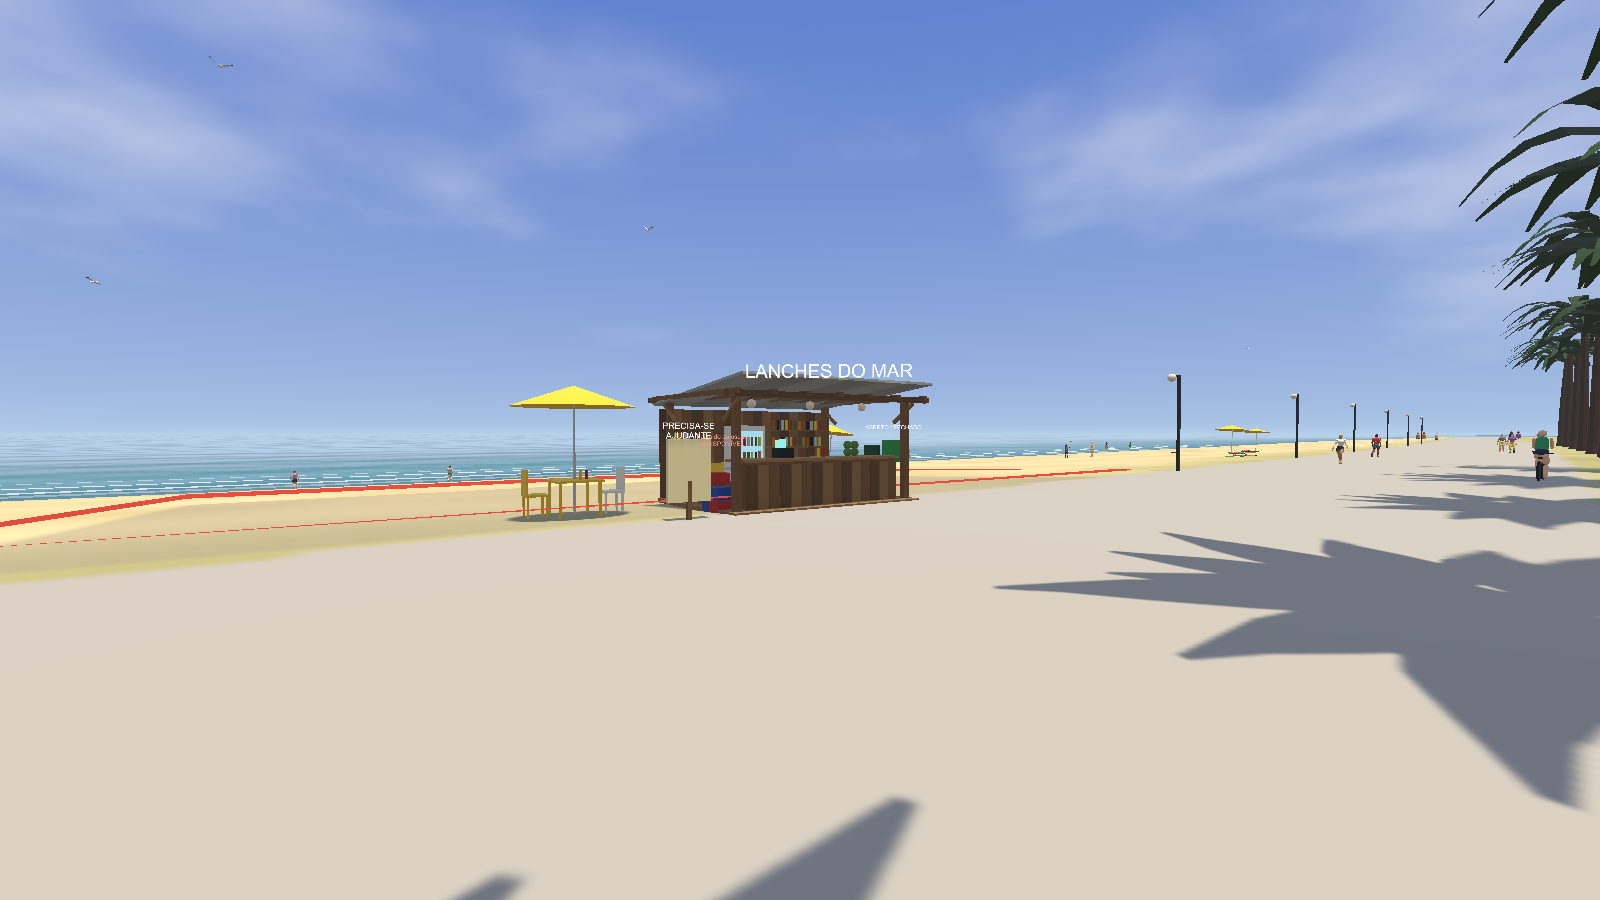
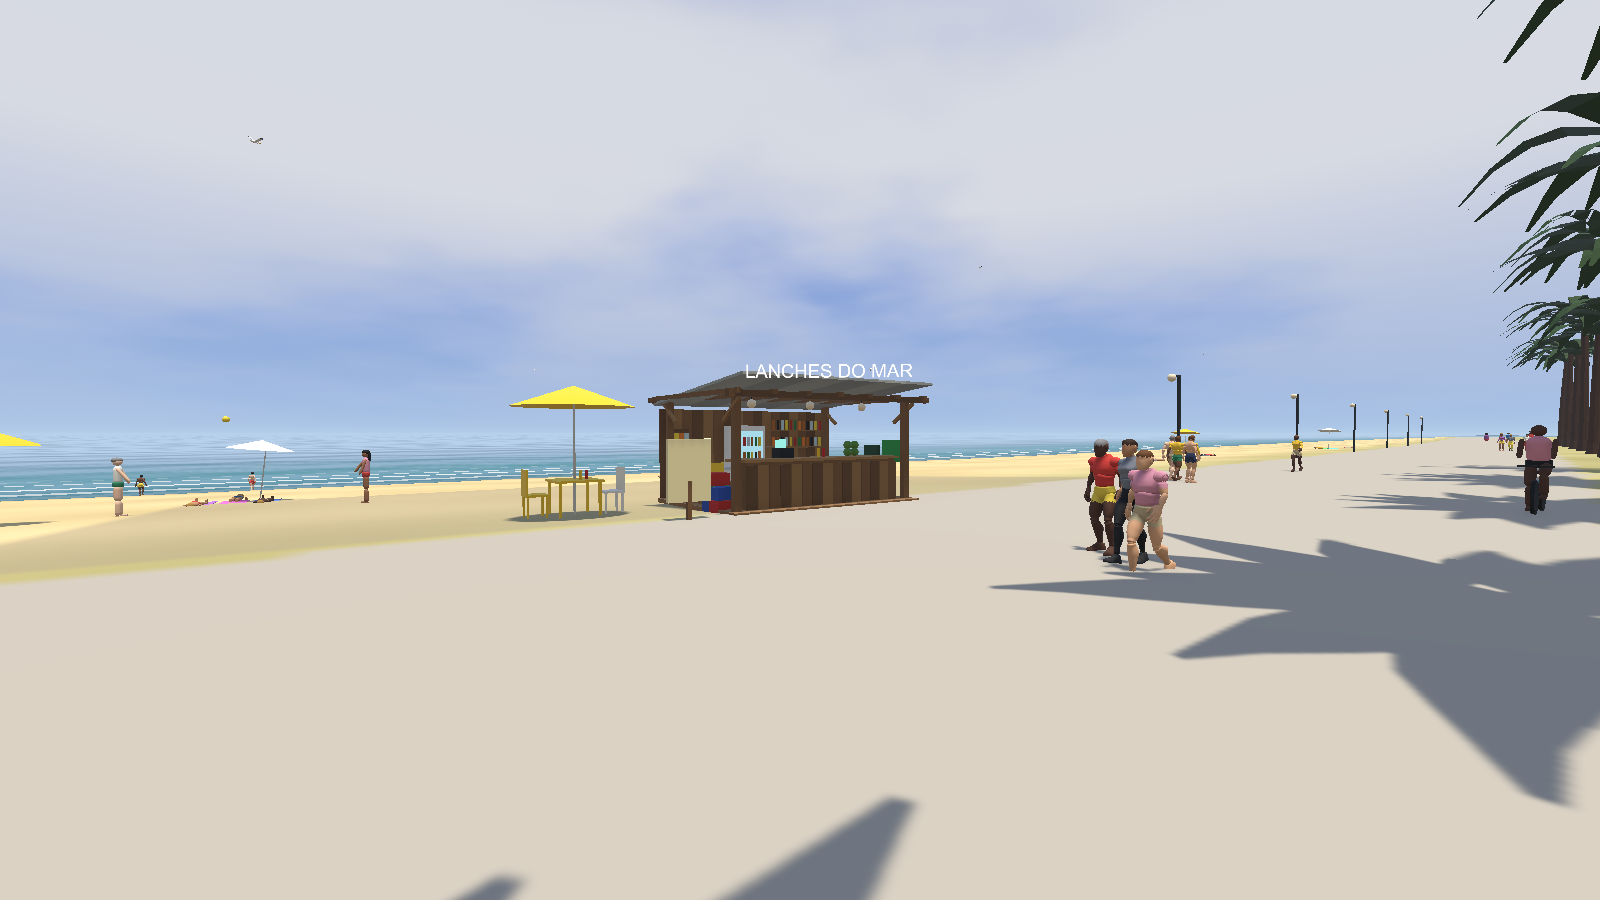
Resort F02: hide parcel debug lines and distant 3D captions in the normal view
Parcel boundaries/labels now show within 22 m (locked land within 6 m);
small stall captions render within 9 m via Billboard.showRange. 20/20 PlayMode.

diff --git a/FacilityOps/Assets/_Game/Scripts/Resort/Game/StallBuilder.cs b/FacilityOps/Assets/_Game/Scripts/Resort/Game/StallBuilder.cs
@@ -166,13 +166,13 @@ namespace ResortAurora.Game
             return g;
         }
 
-        public static TextMesh Label(Transform parent, Vector3 localPos, string text, int size = 48, float scale = 0.05f)
+        public static TextMesh Label(Transform parent, Vector3 localPos, string text, int size = 48, float scale = 0.05f, float showRange = 0f)
         {
             var g = new GameObject("Label"); g.transform.SetParent(parent, false); g.transform.localPosition = localPos;
             var t = g.AddComponent<TextMesh>();
             t.text = text; t.fontSize = size; t.characterSize = scale; t.anchor = TextAnchor.MiddleCenter; t.alignment = TextAlignment.Center;
             t.color = Color.white;
-            g.AddComponent<Billboard>();
+            g.AddComponent<Billboard>().showRange = showRange;
             return t;
         }
 
@@ -219,7 +219,7 @@ namespace ResortAurora.Game
             act.prompt = g => g.ShopOpen ? "[E] Fechar o quiosque e conferir o caixa" : "[E] Abrir o quiosque";
             act.canUse = g => !g.Clock.DayOver && !g.AwaitingSleep;
             act.action = g => { if (g.ShopOpen) g.RequestClose(); else g.OpenShop(); };
-            Label(root, new Vector3(-2.45f, 1.85f, 1.15f), "ABERTO / FECHADO", 36, 0.04f);
+            Label(root, new Vector3(-2.45f, 1.85f, 1.15f), "ABERTO / FECHADO", 36, 0.04f, showRange: 9f);
             // help board on a post
             var help = Box("HelpBoard", root, new Vector3(-2.4f, 1.1f, 0.4f), new Vector3(0.08f, 0.6f, 0.5f), new Color(0.15f, 0.3f, 0.2f));
             var hp = help.AddComponent<PanelStation>(); hp.panel = Panel.Help; hp.label = "Como jogar";
@@ -227,7 +227,7 @@ namespace ResortAurora.Game
             var jobs = Box("JobBoard", root, new Vector3(3.6f, 1.0f, 1.9f), new Vector3(0.9f, 1.2f, 0.08f), new Color(0.94f, 0.9f, 0.7f));
             Box("JobPost", root, new Vector3(3.6f, 0.4f, 1.9f), new Vector3(0.08f, 0.8f, 0.08f), wood, collider: false);
             var jb = jobs.AddComponent<PanelStation>(); jb.panel = Panel.Hire; jb.label = "Mural de vagas (contratar)";
-            Label(root, new Vector3(3.6f, 1.75f, 1.9f), "PRECISA-SE\nAJUDANTE", 40, 0.04f);
+            Label(root, new Vector3(3.6f, 1.75f, 1.9f), "PRECISA-SE\nAJUDANTE", 40, 0.04f, showRange: 9f);
             Label(root, new Vector3(0f, 3.1f, 1.6f), "LANCHES DO MAR", 60, 0.07f);
 
             var layout = new StallLayout
@@ -249,10 +249,19 @@ namespace ResortAurora.Game
     /// <summary>Keeps world-space labels facing the camera.</summary>
     public sealed class Billboard : MonoBehaviour
     {
+        /// <summary>When above zero the text only renders within this many metres of the camera, so small captions do not clutter distant views.</summary>
+        public float showRange;
+        MeshRenderer mr;
+
         void LateUpdate()
         {
             var c = Camera.main;
-            if (c != null) transform.rotation = Quaternion.LookRotation(transform.position - c.transform.position);
+            if (c == null) return;
+            var d = transform.position - c.transform.position;
+            transform.rotation = Quaternion.LookRotation(d);
+            if (showRange <= 0f) return;
+            if (mr == null) mr = GetComponent<MeshRenderer>();
+            if (mr != null) mr.enabled = d.sqrMagnitude <= showRange * showRange;
         }
     }
 }

diff --git a/FacilityOps/Assets/_Game/Scripts/Resort/Game/ParcelMarkers.cs b/FacilityOps/Assets/_Game/Scripts/Resort/Game/ParcelMarkers.cs
@@ -38,7 +38,9 @@ namespace ResortAurora.Game
             }
         }
 
-        const float ShowRange = 70f;                           // boundary and label only appear near the land (a beach full of red lines is not a beach)
+        const float ShowRange = 22f;                           // boundary and label only appear when you are close to the land (a beach full of red lines is not a beach)
+
+        const float LockedRange = 6f;
 
         void Update()
         {
@@ -47,9 +49,10 @@ namespace ResortAurora.Game
             foreach (var e in entries)
             {
                 float dx = Mathf.Max(e.data.x - cp.x, 0f, cp.x - (e.data.x + e.data.width)), dz = Mathf.Max(e.data.z - cp.z, 0f, cp.z - (e.data.z + e.data.depth));
-                bool near = cam == null || dx * dx + dz * dz < ShowRange * ShowRange;
-                if (e.line.enabled != near) { e.line.enabled = near; e.label.gameObject.SetActive(near); }
                 var status = game.Parcels.StatusOf(e.data.id, game.Stall.Reputation);
+                float range = status == ParcelStatus.Locked ? LockedRange : ShowRange;   // land you cannot buy yet stays out of the way
+                bool near = cam == null || dx * dx + dz * dz < range * range;
+                if (e.line.enabled != near) { e.line.enabled = near; e.label.gameObject.SetActive(near); }
                 string key = status.ToString();
                 if (key == e.lastKey) continue;
                 e.lastKey = key;

diff --git a/Docs/PROJECT_RESORT_EXECUTION/RELATORIO_02_VERTICAL_SLICE_QUIOSQUE.md b/Docs/PROJECT_RESORT_EXECUTION/RELATORIO_02_VERTICAL_SLICE_QUIOSQUE.md
@@ -239,3 +239,18 @@ Fecha a ressalva "desempenho não remedido" dos adendos 6–8 (duplas com bola, 
 - Decisão: **não** regenerar o estágio 2 no Blender só para mover a mesa oeste a 7 m que cai no bloco de banheiros. A regeneração exige `create_stages.py` (os 7 estágios, `.blend` git-ignorado) + `export_resort_kit.py` (re-exporta todos os FBX), com risco de mudar outros estágios; o ganho é uma mesa. `StallBuilder.AddKioskSeats` já pula essa mesa, então não há cliente sentado dentro da parede. Fica como débito cosmético para a Fase 15.
 - As capturas `Reviews/F02/*.png` são sobrescritas a cada run dos testes gráficos (aparecem como modificadas no git); não foram commitadas por serem só ruído de re-render.
 - Restante da Fase 02 depende de olhar/jogada humana; não há mais código seguro com retorno relevante antes disso.
+
+---
+
+# Adendo 11 — limpeza de elementos de debug na vista normal (2026-10-06, rodada 21)
+
+**Status: FEITO e REVALIDADO (`unity_PlayMode_20261006_234215`, `-Graphics`: 20/20 PlayMode). Gate técnico segue PASS; `HUMAN_GATE_PENDING` continua; a Fase 03 NÃO está liberada.**
+
+Origem: o QA do Diretor (`DIRECTOR_QA_LATEST.md`) apontou como problemas visuais "linhas de lote em vermelho dominando a cena" e "textos técnicos 3D poluindo o enquadramento". As capturas das rodadas anteriores ainda mostravam as duas coisas (a linha vermelha de um terreno bloqueado ao lado do quiosque e legendas "PRECISA-SE AJUDANTE" / "ABERTO / FECHADO" sobrepostas ao longe).
+
+Mudanças (só apresentação, sem alterar simulação nem save):
+- `ParcelMarkers`: bordas/legendas de terrenos aparecem a ≤ 22 m (antes 70 m); terrenos **bloqueados** só a ≤ 6 m. A placa física do terreno continua existindo.
+- `Billboard`/`StallBuilder.Label`: parâmetro `showRange`; legendas pequenas do quiosque ("ABERTO / FECHADO", "PRECISA-SE AJUDANTE") só renderizam a ≤ 9 m. O letreiro "LANCHES DO MAR" segue sempre visível.
+- Evidência real da Unity: `ArtSource/Blender/World/Reviews/F02/f02_1_dia_kiosque_da_calcada.png` (sem linha vermelha, sem texto técnico a distância).
+
+Itens do QA do Diretor que seguem abertos (exigem arte/olhar humano): NPCs ainda semi-blockout de perto, quiosque/mobiliário simples, céu noturno/iluminação a avaliar visualmente, fundo urbano blockout, aproximação à REF 01/02.

diff --git a/Docs/PROJECT_RESORT_EXECUTION/CLAUDE_CURRENT_TASK.md b/Docs/PROJECT_RESORT_EXECUTION/CLAUDE_CURRENT_TASK.md
@@ -1,6 +1,6 @@
 # PROJECT RESORT — Tarefa Atual do Claude
 
-Atualizado em 2026-10-06 (rodada 20: estado idêntico ao das rodadas 17–19 — HEAD == origin, mesmos 6 pacotes na biblioteca, sem código novo; aguardando jogada humana).
+Atualizado em 2026-10-06 (rodada 21: limpeza de debug visual — linhas de lote e legendas 3D distantes escondidas; 20/20 testes; aguardando jogada humana).
 
 ## Fase atual
 
@@ -35,6 +35,7 @@ A Fase 03 NÃO está liberada.
 - Rodada 17 (feita): `git fetch` — HEAD == origin (0/0), nada novo fora de `Reviews/`, biblioteca de assets inalterada (mesmos 6 pacotes), nenhum commit de código desde a rodada 10 (20/20 válido). Nenhuma ação segura nova; Unity não reexecutada. **Bloqueio real: jogada humana (`ROTEIRO_PLAYTEST_HUMANO_FASE_02.md`) ou novos pacotes/instrução.**
 - Rodada 18 (feita): `git fetch` — HEAD == origin (0/0), nada novo fora de `Reviews/`, biblioteca de assets com os mesmos 6 pacotes; nenhuma mudança de código ou validação nova. Estado idêntico ao da rodada 17. Não há trabalho seguro novo; **parar até haver jogada humana, novos pacotes na biblioteca ou nova instrução do Diretor**.
 - Rodada 20 (feita): `git fetch` — HEAD == origin (0/0), nada fora de `Reviews/` modificado, biblioteca inalterada (6 pacotes); Unity não reexecutada (nenhum código mudou desde a rodada 10, 20/20 válido). Nenhum trabalho seguro novo. **Bloqueio real e único: jogada humana de `ROTEIRO_PLAYTEST_HUMANO_FASE_02.md`, ou novos pacotes de animação na biblioteca, ou nova instrução.**
+- Rodada 21 (feita): atendendo ao QA do Diretor (`DIRECTOR_QA_LATEST.md`), linhas/legendas de terrenos só a ≤ 22 m (bloqueados ≤ 6 m) e legendas pequenas do quiosque só a ≤ 9 m (`Billboard.showRange`); 20/20 PlayMode (`-Graphics`), captura real `f02_1_dia_kiosque_da_calcada.png` sem a linha vermelha. Adendo 11 do relatório.
 - Relatório: `RELATORIO_02_VERTICAL_SLICE_QUIOSQUE.md` (adendos 1 a 10 de 2026-10-06).
 
 ## Pendente (nada disso se resolve só com código)
